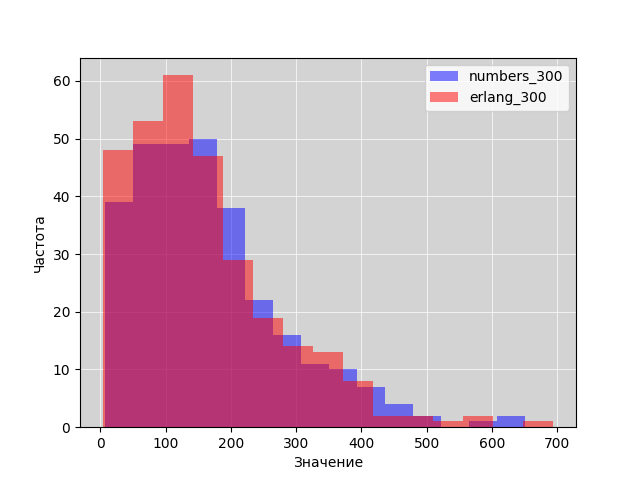
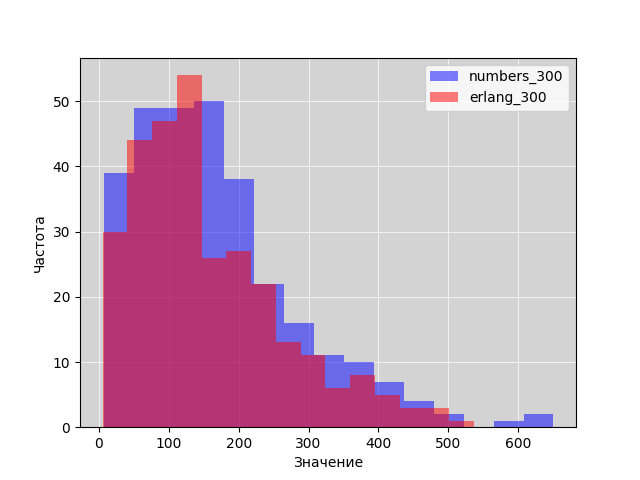
add comaparsion between initial data and erlang k=2

diff --git a/lab1/main.py b/lab1/main.py
@@ -1,5 +1,6 @@
 import matplotlib.pyplot as plt
 import numpy as np
+from scipy import stats
 
 numbers_300, numbers_10, numbers_20, numbers_50, numbers_100, numbers_200 = (
     [],
@@ -145,7 +146,7 @@ plt.plot(numbers_300, color="red")
 plt.xlabel("Значение")
 plt.ylabel("Частота")
 plt.grid(True, linewidth=0.5, color="white")
-# plt.savefig("lab1/1.png")
+plt.savefig("lab1/1.png")
 
 # График 2
 # Гистограмма распределения случайных величин
@@ -155,7 +156,7 @@ plt.hist(numbers_300, bins=15, color="red", edgecolor="black", linewidth=1, zord
 plt.xlabel("Значение")
 plt.ylabel("Частота")
 plt.grid(True, linewidth=0.5, color="white", zorder=0)
-# plt.savefig("lab1/2.png")
+plt.savefig("lab1/2.png")
 
 # График 3 - Гистограмма для 300 случайных чисел с распределением Эрланга и 300 чисел из заданного ЧП
 shape_param = 2  # Параметр k для Эрланга
@@ -185,7 +186,7 @@ plt.grid(True, linewidth=0.5, color="white", zorder=0)
 plt.xlabel("Значение")
 plt.ylabel("Частота")
 plt.legend()
-# plt.savefig("lab1/3.png")
+plt.savefig("lab1/3.png")
 
 # Генерируем последовательность случайных чисел с распределением Эрланга
 erlang_200 = np.random.gamma(shape=shape_param, scale=scale_param, size=200).tolist()
@@ -288,32 +289,63 @@ lags = range(1, 11)
 n = len(numbers_300)
 numbers_autocorrs = []
 for lag in range(1, 11):
-    numerator = np.sum((numbers_300[:-lag] - np.mean(numbers_300[:-lag])) * (numbers_300[lag:] - np.mean(numbers_300[lag:])))
-    denominator = np.sum((numbers_300[:-lag] - np.mean(numbers_300[:-lag]))**2)
+    numerator = np.sum(
+        (numbers_300[:-lag] - np.mean(numbers_300[:-lag]))
+        * (numbers_300[lag:] - np.mean(numbers_300[lag:]))
+    )
+    denominator = np.sum((numbers_300[:-lag] - np.mean(numbers_300[:-lag])) ** 2)
     autocorr = numerator / denominator
     numbers_autocorrs.append(autocorr)
 print("\nAutocorrs number_300: ", list(float(i) for i in numbers_autocorrs))
 plt.clf()
 plt.gca().set_facecolor("lightgray")
-plt.plot(lags, numbers_autocorrs, marker='o', color="red")
-plt.xlabel('Сдвиг')
-plt.ylabel('Коэффициент автокорреляции')
+plt.plot(lags, numbers_autocorrs, "r-", marker="o")
+plt.xlabel("Сдвиг")
+plt.ylabel("Коэффициент автокорреляции")
 plt.grid(True, linewidth=0.5, color="white")
 plt.savefig("lab1/4.png")
 
+
+# Рассчёт коэффициентов автокорреляции для erlang_300. Вывод графика
 erlang_autocorrs = []
 for lag in range(1, 11):
-    numerator = np.sum((erlang_300[:-lag] - np.mean(erlang_300[:-lag])) * (erlang_300[lag:] - np.mean(erlang_300[lag:])))
-    denominator = np.sum((erlang_300[:-lag] - np.mean(erlang_300[:-lag]))**2)
+    numerator = np.sum(
+        (erlang_300[:-lag] - np.mean(erlang_300[:-lag]))
+        * (erlang_300[lag:] - np.mean(erlang_300[lag:]))
+    )
+    denominator = np.sum((erlang_300[:-lag] - np.mean(erlang_300[:-lag])) ** 2)
     autocorr = numerator / denominator
     erlang_autocorrs.append(autocorr)
 print("Autocorrs erlang_300: ", list(float(i) for i in erlang_autocorrs))
 plt.clf()
 plt.gca().set_facecolor("lightgray")
-plt.plot(lags, erlang_autocorrs, marker='o', color="red")
-plt.xlabel('Сдвиг')
-plt.ylabel('Коэффициент автокорреляции')
+plt.plot(lags, erlang_autocorrs, "r-", marker="o")
+plt.xlabel("Сдвиг")
+plt.ylabel("Коэффициент автокорреляции")
 plt.grid(True, linewidth=0.5, color="white")
 plt.savefig("lab1/5.png")
 
-
+# сравнение плотности распределения аппроксимирующего закона с гистограммой распределения частот для исходной ЧП
+plt.clf()
+plt.gca().set_facecolor("lightgray")
+plt.hist(
+    numbers_300,
+    bins=15,
+    density=True,
+    color="red",
+    edgecolor="black",
+    linewidth=1,
+    zorder=2,
+    label="Исходные данные",
+)
+plt.xlabel("Значение")
+plt.ylabel("Плотность распределения")
+plt.grid(True, linewidth=0.5, color="white", zorder=0)
+exp_lambda = 1 / np.mean(numbers_300)
+x = np.linspace(0, max(numbers_300), 1000)
+exp_pdf = exp_lambda * np.exp(-exp_lambda * x)
+erlang_lambda = 2 / np.mean(numbers_300)
+erlang_pdf = stats.erlang.pdf(x, a=2, scale=1 / erlang_lambda)
+plt.plot(x, erlang_pdf, "b-", lw=2, label="Распределение Эрланга (k=2)")
+plt.legend()
+plt.savefig("lab1/6.png")
